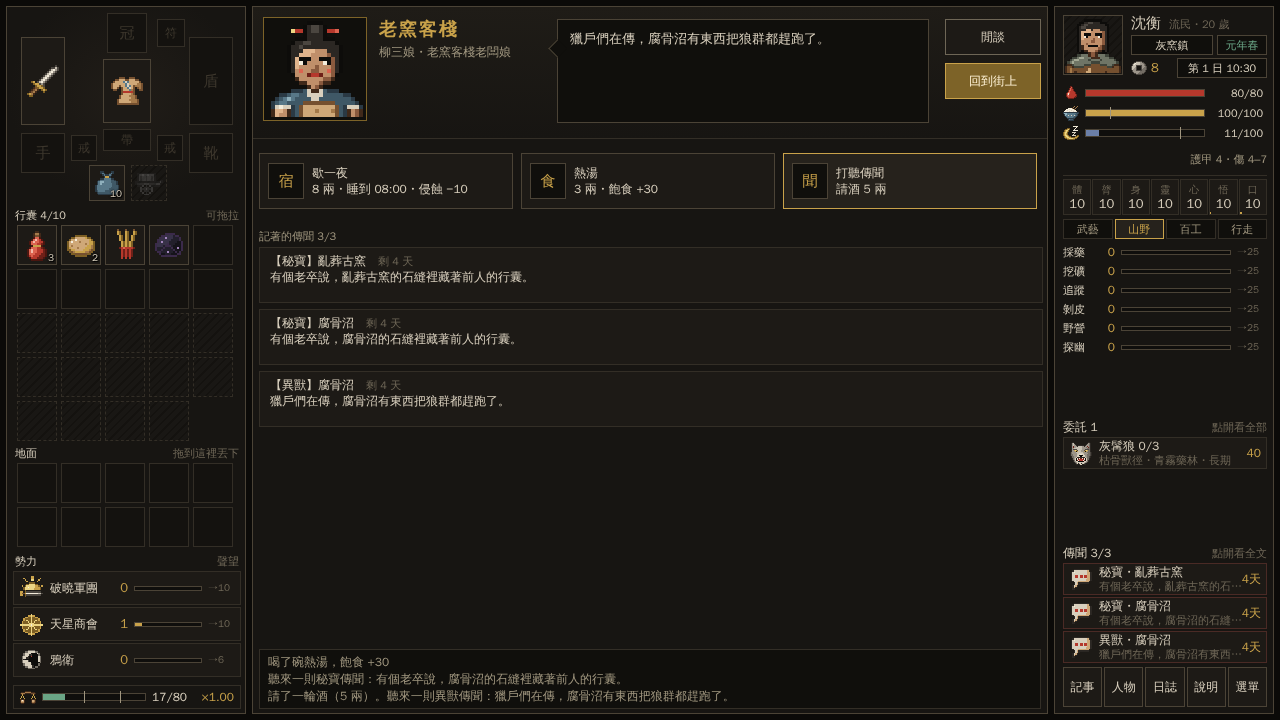
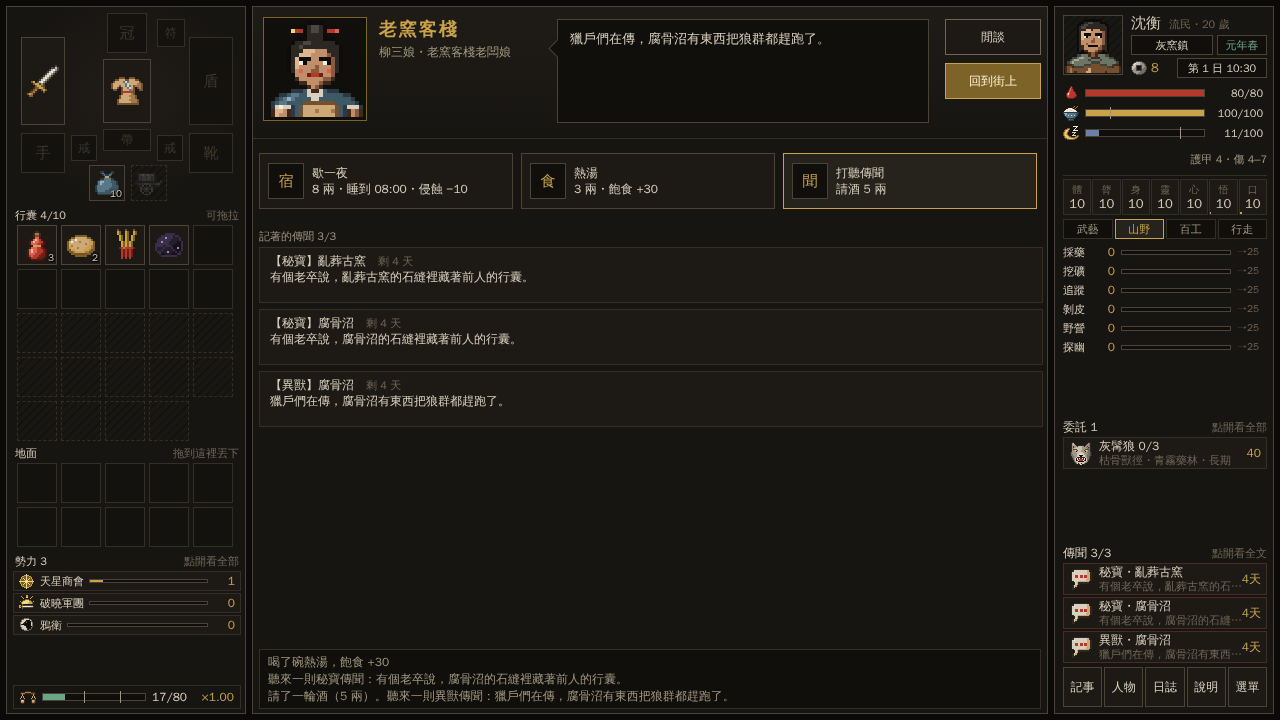
fix: 探查不再顯示次數；勢力欄改為可容納任意數量（可捲動清單＋勢力總覽），新增鎮西將軍府、拜裂教
Claude-Session: https://claude.ai/code/session_01LdUmBKKgToZ9b5RE6tfG3E

Changed region(s): [[0.0, 0.7639, 0.1875, 0.9472]]

diff --git a/js/ui.js b/js/ui.js
@@ -84,12 +84,13 @@
       h += '<div class="cell click' + rcls(it) + '" data-a="pickup" data-v="' + i + '" data-tip="ground:' + i + '" data-drag="ground:' + i + '" data-testid="ground-' + i + '" style="' + pos(x, y, 40, 40) + '">' + itIco(it) + (it.k !== 'eq' && it.n > 1 ? '<span class="n">' + it.n + '</span>' : '') + '</div>';
     }
     h += '</div>';
-    // 三大勢力聲望（原小地圖的位置）
-    h += '<div class="lhead" style="top:546px"><span class="lbl"><b>勢力</b></span><span class="sub">聲望</span></div><div class="reps" data-testid="reps">';
-    Object.keys(D.FACTIONS).forEach((f) => {
-      const F = D.FACTIONS[f]; const v = S.rep[f]; const nx = F.perks.find((p) => v < p[0]);
+    // 勢力聲望（原小地圖的位置）：勢力會越來越多，所以做成可捲動的精簡清單，聲望高的排前面；點開看全部
+    const fs = G.knownFactions().sort((a, b) => G.repOf(b) - G.repOf(a));
+    h += '<div class="lhead" style="top:546px" data-a="overlay" data-v="faction"><span class="lbl"><b>勢力 ' + fs.length + '</b></span><span class="sub lnk">點開看全部</span></div><div class="reps" data-testid="reps">';
+    fs.forEach((f) => {
+      const F = D.FACTIONS[f]; const v = G.repOf(f); const nx = F.perks.find((p) => v < p[0]);
       const base = nx ? (F.perks[F.perks.indexOf(nx) - 1] || [0])[0] : 0;
-      h += '<div class="rep" data-testid="rep-' + f + '" title="' + F.name + '：' + F.perks.map((p) => p[0] + ' ' + p[1]).join('；') + '">' + ico(F.ic, F.g, 24) + '<span class="rn">' + F.name + '</span><b>' + Math.floor(v) + '</b><div class="pb"><i style="width:' + (nx ? Math.min(100, ((v - base) / (nx[0] - base)) * 100) : 100).toFixed(0) + '%"></i></div><span class="rx">' + (nx ? '→' + nx[0] : '滿') + '</span></div>';
+      h += '<div class="rep" data-a="overlay" data-v="faction" data-testid="rep-' + f + '" title="' + F.name + '：' + (F.perks.length ? F.perks.map((p) => p[0] + ' ' + p[1]).join('；') : '尚無往來') + '">' + ico(F.ic, F.g, 16) + '<span class="rn">' + F.name + '</span><div class="pb"><i style="width:' + (F.perks.length ? (nx ? Math.min(100, ((v - base) / (nx[0] - base)) * 100) : 100) : 0).toFixed(0) + '%"></i></div><b>' + Math.floor(v) + '</b></div>';
     });
     h += '</div>';
     // 負重底條
@@ -285,8 +286,7 @@
   }
   // 探查鈕：每個地點都有
   function exploreBtn(S, cls) {
-    const ex = G.exploreInfo(S.loc); const done = ex.found >= ex.total;
-    return '<button class="btn ' + (done ? 'dis' : 'gold') + (cls ? ' ' + cls : '') + '" ' + (done ? 'disabled' : '') + ' data-a="explore" data-testid="btn-explore" title="花 1 小時翻找這個地點。成功率看靈覺與探幽。">' + (done ? '已翻遍 ' : '探查 ') + ex.found + '/' + ex.total + (done ? '' : '（' + Math.round(G.exploreChance(S.loc) * 100) + '%）') + '</button>';
+    return '<button class="btn gold' + (cls ? ' ' + cls : '') + '" data-a="explore" data-testid="btn-explore" title="花 1 小時在這裡四處翻找：可能找到東西、聽到見聞，或發現新的地方。靈覺與探幽越高越容易有收穫。">探查（1 小時）</button>';
   }
 
   // ---------- 出身 ----------
@@ -320,7 +320,7 @@
     if (S.mapView === 'continent') h = sceneContinent(S);
     else {
       h = '<div class="map' + scn('map_region') + '" data-testid="worldmap">';
-      h += '<div class="legend"><span>━ 官道</span><span>╍ 野徑</span><span class="red">■ 有傳聞</span><span class="gold">▪ 探查</span></div>';
+      h += '<div class="legend"><span>━ 官道</span><span>╍ 野徑</span><span class="red">■ 有傳聞</span></div>';
       h += '<button class="btn mapsw" data-a="mapView" data-v="continent" data-testid="btn-continent">大陸圖</button>';
       D.REGION_LABELS.forEach(([n, x, y]) => (h += '<div class="region" style="left:' + x + 'px;top:' + y + 'px">' + n + '</div>'));
       let svg = '<svg width="796" height="560">';
@@ -338,10 +338,8 @@
         const n = D.NODES[id];
         const rum = S.rumors.some((r) => r.node === id); const tide = td && td.town === id;
         const cls = (id === S.loc ? ' cur' : '') + (id === dest ? ' dest' : '') + (rum ? ' rum' : '') + (tide ? ' tide' : '') + (n.hidden ? ' secret' : '');
-        const ex = G.exploreInfo(id);
         h += '<div class="mnode' + cls + '" data-a="dest" data-v="' + id + '" data-testid="node-' + id + '" style="left:' + (n.x - 19) + 'px;top:' + (n.y - 19) + 'px">' + ico(n.ic, n.g, 32) + '</div>';
         h += '<div class="mlabel" data-a="dest" data-v="' + id + '" style="left:' + (n.x - 34) + 'px;top:' + (n.y + 23) + 'px;width:68px;justify-content:center;cursor:pointer">' + n.name + '</div>';
-        h += '<div class="exd" style="left:' + (n.x - 34) + 'px;top:' + (n.y + 43) + 'px" title="探查 ' + ex.found + '/' + ex.total + '">' + Array.from({ length: ex.total }, (_, k) => '<i class="' + (k < ex.found ? 'on' : '') + '"></i>').join('') + '</div>';
         if (id === S.loc) h += '<div class="here" style="left:' + (n.x - 22) + 'px;top:' + (n.y - 44) + 'px">此地</div>';
         else if (tide) h += '<div class="here tidel" style="left:' + (n.x - 22) + 'px;top:' + (n.y - 44) + 'px">獸潮</div>';
         else if (rum && id !== dest) h += '<div class="here ruml" style="left:' + (n.x - 22) + 'px;top:' + (n.y - 44) + 'px">傳聞</div>';
@@ -363,7 +361,7 @@
       h += '<button class="btn dark go" data-a="travel" data-testid="btn-travel">前往</button>';
     } else {
       const n = D.NODES[S.loc];
-      h += '<div class="dic">' + ico(n.ic, n.g, 32) + '</div><div class="dname"><b>' + n.name + '</b><span class="sub">此地</span></div><span class="sub dhint">點任何地點設定目的地。每個地點都能探查。</span>';
+      h += '<div class="dic">' + ico(n.ic, n.g, 32) + '</div><div class="dname"><b>' + n.name + '</b><span class="sub">此地</span></div><span class="sub dhint">點任何地點設定目的地；每個地點都能進去。</span>';
       h += exploreBtn(S, 'dexp') + '<button class="btn dark go" data-a="enterHere" data-testid="btn-enter">進入此地</button>';
     }
     h += '</div>';
@@ -430,7 +428,7 @@
   function sceneBuilding(S) {
     const B = G.bld(); const NP = D.NPCS[B.npc]; const F = B.faction ? D.FACTIONS[B.faction] : null;
     let h = '<div class="bhead" data-testid="town"><div class="bface">' + npcFace(B.npc, 96) + '</div>';
-    h += '<div class="btitle"><b data-testid="bld-name">' + B.name + '</b><span>' + NP.name + (NP.title ? '・' + NP.title : '') + '</span>' + (F ? '<span class="bfac">' + ico(F.ic, F.g, 16) + F.name + ' ' + Math.floor(S.rep[B.faction]) + '</span>' : '') + '</div>';
+    h += '<div class="btitle"><b data-testid="bld-name">' + B.name + '</b><span>' + NP.name + (NP.title ? '・' + NP.title : '') + '</span>' + (F ? '<span class="bfac">' + ico(F.ic, F.g, 16) + F.name + ' ' + Math.floor(G.repOf(B.faction)) + '</span>' : '') + '</div>';
     h += '<div class="bsay" data-testid="say">' + esc((S.say && S.say.text) || '……') + '</div>';
     h += '<div class="bbtns"><button class="btn" data-a="talk" data-v="' + B.npc + '" data-testid="btn-talk">閒談</button><button class="btn dark" data-a="tab" data-v="" data-testid="btn-street">回到街上</button></div></div>';
     h += '<div class="tpanel">';
@@ -492,7 +490,7 @@
       h += '<div class="dcard" style="left:' + x + 'px;top:' + y + 'px"><span class="bt"><b>' + p.name + ' ' + G.profLv(p.id) + '</b><span class="sub">' + (next ? next + '：' + cut(p.perks[next], 14) : '已無新門檻') + '</span></span><button class="btn" data-a="svc" data-v="drill:' + p.id + '" data-testid="drill-' + p.id + '">操練</button></div>';
     });
     const has = S.skills.includes('pozhen');
-    h += '<div class="ttl" style="left:0;top:194px">軍團傳授</div><div class="dcard wide" style="left:0;top:212px">' + ico('s_pozhen', '陣', 32) + '<span class="bt"><b>破陣</b><span class="sub">' + D.SKILLS.pozhen.desc + '需破曉軍團聲望 10（目前 ' + Math.floor(S.rep.dawn) + '）</span></span><button class="btn ' + (has ? 'dis' : 'gold') + '" ' + (has ? 'disabled' : '') + ' data-a="svc" data-v="pozhen" data-testid="svc-pozhen">' + (has ? '已習得' : '學（' + c.pozhen + ' 兩）') + '</button></div>';
+    h += '<div class="ttl" style="left:0;top:194px">軍團傳授</div><div class="dcard wide" style="left:0;top:212px">' + ico('s_pozhen', '陣', 32) + '<span class="bt"><b>破陣</b><span class="sub">' + D.SKILLS.pozhen.desc + '需破曉軍團聲望 10（目前 ' + Math.floor(G.repOf('dawn')) + '）</span></span><button class="btn ' + (has ? 'dis' : 'gold') + '" ' + (has ? 'disabled' : '') + ' data-a="svc" data-v="pozhen" data-testid="svc-pozhen">' + (has ? '已習得' : '學（' + c.pozhen + ' 兩）') + '</button></div>';
     return h;
   }
   function tabShop(S, B) {
@@ -628,12 +626,11 @@
     h += '<div class="scap">' + W.scene + (G.isNight(S.t) ? '　夜裡，遇險上升。' : '') + '</div>';
     h += '</div>';
     const herbF = Math.round(G.gatherFat('herb')), oreF = Math.round(G.gatherFat('ore'));
-    const ex = G.exploreInfo(S.loc); const exDone = ex.found >= ex.total;
     h += '<div class="gbtns">';
     h += '<button class="gbtn" data-a="gather" data-v="herb" data-testid="act-herb"><span class="ic">' + ico('p_herb', '草', 28) + '</span><span><b>採藥</b><span>1 小時・疲 +' + herbF + '</span></span></button>';
     h += '<button class="gbtn" data-a="gather" data-v="ore" data-testid="act-ore"><span class="ic">' + ico('p_ore', '礦', 28) + '</span><span><b>挖礦</b><span>2 小時・疲 +' + oreF + '</span></span></button>';
     h += '<button class="gbtn" data-a="gather" data-v="track" data-testid="act-track"><span class="ic">' + ico('p_track', '獸', 28) + '</span><span><b>追蹤</b><span>1 小時・入戰</span></span></button>';
-    h += '<button class="gbtn' + (exDone ? ' off' : '') + '" data-a="explore" data-testid="btn-explore"><span class="ic">' + ico('ui_explore', '探', 28) + '</span><span><b>探查 ' + ex.found + '/' + ex.total + '</b><span>' + (exDone ? '已翻遍' : '1 小時・' + Math.round(G.exploreChance(S.loc) * 100) + '%') + '</span></span></button>';
+    h += '<button class="gbtn" data-a="explore" data-testid="btn-explore"><span class="ic">' + ico('ui_explore', '探', 28) + '</span><span><b>探查</b><span>1 小時・四處翻找</span></span></button>';
     h += '<button class="gbtn hot" data-a="camp" data-testid="act-camp"><span class="ic">' + ico('ui_fire', '火', 28) + '</span><span><b>' + (S.fire ? '露宿' : '紮營') + '</b><span>' + (S.fire ? '8 小時・夜警' : '生火・1 小時') + '</span></span></button>';
     h += '</div>';
     h += '<div class="recipes" data-testid="recipes"><div class="ttl" style="left:8px;top:4px">營火' + (S.fire ? '' : '（未生火：先紮營）') + '　煉藥 ' + G.profLv('yao') + '・烹食 ' + G.profLv('peng') + '</div>' + recipeCards(S, 4, 24) + '</div>';
@@ -795,6 +792,17 @@
           ids.forEach((k) => { const has = S.codex.includes(k); h += '<div class="cx' + (has ? '' : ' unk') + '"><b>' + (has ? esc(L.CODEX[k].title) : '？？？') + '</b>' + (has ? '<p>' + esc(L.CODEX[k].text).replace(/\n/g, '<br>') + '</p>' : '') + '</div>'; });
         });
       }
+      h += '</div>';
+    } else if (S.overlay === 'faction') {
+      const fs = G.knownFactions(); const all = Object.keys(D.FACTIONS);
+      h += '<h2>勢力</h2><div class="jbody">';
+      fs.sort((a, b) => G.repOf(b) - G.repOf(a)).forEach((f) => {
+        const F = D.FACTIONS[f]; const v = G.repOf(f);
+        h += '<div class="fcard" data-testid="fcard-' + f + '"><div class="fic">' + ico(F.ic, F.g, 32) + '</div><div class="fbd"><b>' + F.name + '</b>　<span class="gold">聲望 ' + Math.floor(v) + '</span><p>' + F.desc + '</p><p class="sub">怎麼漲：' + F.how + '</p>';
+        h += F.perks.length ? '<div class="fperks">' + F.perks.map((p) => '<span class="' + (v >= p[0] ? 'got' : '') + '">' + p[0] + '　' + p[1] + '</span>').join('') + '</div>' : '<p class="sub">尚無往來。</p>';
+        h += '</div></div>';
+      });
+      if (all.length > fs.length) h += '<p class="sub">還有 ' + (all.length - fs.length) + ' 個勢力你還不知道。多聽、多看、多探查。</p>';
       h += '</div>';
     } else if (S.overlay === 'char') {
       const O = D.ORIGINS.find((o) => o.id === S.origin);

diff --git a/tests/e2e.js b/tests/e2e.js
@@ -204,7 +204,7 @@ async function exploreUntil(page, pred, max) {
   check('建築的點擊範圍來自平面圖場景（不是後備排版）', await page.evaluate(() => { const b = window.SHL_SCENES.buildings.plan_huiyao; return !!b && ['hy_market', 'hy_inn', 'hy_apoth', 'hy_smith', 'hy_board', 'hy_shrine', 'gate'].every((k) => Array.isArray(b[k]) && b[k].length === 4); }));
   check('街上有 3 個路人', (await page.$$('.plan .fig')).length === 3);
   check('#5 城鎮沒有分頁列', !(await page.$('.tabs')));
-  check('#1 左下小地圖已移除，改為三大勢力聲望', !(await page.$('.minimap')) && (await page.$$('[data-testid^=rep-]')).length === 3);
+  check('#1 左下小地圖已移除，改為勢力聲望（開局知道 3 個）', !(await page.$('.minimap')) && (await page.$$('[data-testid^=rep-]')).length === 3);
   check('#8 右欄不再有技能格', !(await page.$('.skillgrid')));
   check('開局委託：灰髯狼 ×3 已追蹤（兩行大字）', (await page.textContent('[data-testid=bounty]')).includes('灰髯狼 0/3') && await page.evaluate(() => parseFloat(getComputedStyle(document.querySelector('.jent .jt b')).fontSize) >= 12), await page.textContent('[data-testid=bounty]'));
   check('左欄 10 部位＋背包槽＋鎖定馬車槽', (await page.$$('[data-testid^=slot-]')).length === 11 && !!(await page.$('.slot-cart.locked')));
@@ -318,6 +318,16 @@ async function exploreUntil(page, pred, max) {
   await shot(page, '07-journal-codex.png');
   await click(page, 'sys-journal');
 
+  // ===== 6b. 勢力欄：讀到見聞會多出勢力，清單可捲動，點開看全部 =====
+  await page.evaluate(() => { window.SHL._debug.addCodex('c_warlord'); window.SHL._debug.addCodex('c_cult'); window.SHL._debug.addRep('crow', 3); window.SHL.setProfTab(window.SHL.state.profTab); });
+  const reps = await page.evaluate(() => ({ n: document.querySelectorAll('[data-testid^=rep-]').length, first: document.querySelector('[data-testid^=rep-]').getAttribute('data-testid'), scroll: getComputedStyle(document.querySelector('.reps')).overflowY }));
+  check('勢力欄：讀到見聞後多出勢力（5 個）、聲望高的排前面、可捲動', reps.n === 5 && reps.first === 'rep-crow' && reps.scroll === 'auto', reps);
+  await audit(page, '勢力欄 5 個');
+  await click(page, 'rep-dawn');
+  check('點勢力開啟勢力總覽：每個勢力的說明、怎麼漲、門檻', (await has(page, 'overlay-faction')) && (await page.$$('.fcard')).length === 5);
+  await shot(page, '07b-factions.png');
+  await click(page, 'sys-char'); await click(page, 'sys-char');
+
   // ===== 7. 探查（城鎮也能探查） =====
   await exploreUntil(page, () => window.SHL.state.found.huiyao >= 1);
   s = await st(page);
@@ -330,7 +340,7 @@ async function exploreUntil(page, pred, max) {
   check('點平面圖上的出口＝離鎮到地圖', s.scene === 'map');
   check('地圖：13 個地點可見、2 個隱藏地點不在圖上', (await page.$$('.mnode')).length === 13 && !(await has(page, 'node-yachao')) && !(await has(page, 'node-guzhong')));
   check('地圖底圖已載入', await page.evaluate(() => window.SHL_SCENES.has('map_region') && getComputedStyle(document.querySelector('.map')).backgroundImage.startsWith('url')));
-  check('地圖上每個地點都標了探查進度', (await page.$$('.exd')).length === 13 && (await page.$$('.exd i.on')).length >= 1);
+  check('地圖上不再標探查次數，探查鈕也不顯示次數', (await page.$$('.exd')).length === 0 && !/\d+\/\d+/.test(await page.textContent('[data-testid=btn-explore]')));
   await click(page, 'btn-continent');
   check('大陸圖：中山、四山、海外、大荒與此地', (await has(page, 'continent')) && (await page.$$('.cchip')).length === 7 && !!(await page.$('.chere')));
   await audit(page, '大陸圖');

diff --git a/js/game.js b/js/game.js
@@ -133,9 +133,12 @@ window.SHL = (function () {
   function inBld(type) { const b = bld(); return !!(b && S.scene === 'town' && b.place === S.loc && b.type === type); }
   function priceTable() { const P = place(); return D.PRICES[P ? P.price : 'duyin']; }
   function known(id) { const N = D.NODES[id]; return !!N && (!N.hidden || !!S.known[id]); }
-  function repOk(f, th) { return S.rep[f] >= th; }
+  function repOf(f) { return S.rep[f] || 0; }
+  function repOk(f, th) { return repOf(f) >= th; }
+  // 已知的勢力：沒有 reveal 的一開始就知道；有 reveal 的要讀到那條見聞
+  function knownFactions() { return Object.keys(D.FACTIONS).filter((f) => !D.FACTIONS[f].reveal || S.codex.includes(D.FACTIONS[f].reveal)); }
   function addRep(f, n) {
-    const before = S.rep[f]; S.rep[f] = Math.round((before + n) * 100) / 100;
+    const before = repOf(f); S.rep[f] = Math.round((before + n) * 100) / 100;
     D.FACTIONS[f].perks.forEach(([th, txt]) => { if (before < th && S.rep[f] >= th) log(D.FACTIONS[f].name + '聲望 ' + th + '：' + txt, 'good'); });
   }
   function addCodex(id, how) {
@@ -143,6 +146,7 @@ window.SHL = (function () {
     S.codex.push(id);
     const L = LORE().CODEX[id];
     log('見聞錄新增「' + (L ? L.title : id) + '」' + (how ? '（' + how + '）' : ''), 'good');
+    Object.keys(D.FACTIONS).forEach((f) => { if (D.FACTIONS[f].reveal === id) log('你知道了一個勢力：' + D.FACTIONS[f].name + '。', 'good'); });
     return true;
   }
   function addCorrupt(n) {
@@ -1158,17 +1162,17 @@ window.SHL = (function () {
   }
   function exploreChance(id) {
     id = id || S.loc; const n = S.found[id] || 0;
+    if (n >= (D.EXPLORE[id] || []).length) return clamp(0.1 + (attrVal('ling') - 10) * 0.01, 0.05, 0.2);
     return clamp(0.55 + (attrVal('ling') - 10) * 0.04 + profLv('tanyou') * 0.006 - n * 0.08, 0.15, 0.95);
   }
   function explore() {
     if (S.combat || S.dead || S.scene === 'origin' || S.scene === 'event' || S.scene === 'loot') return;
     const id = S.loc; const list = D.EXPLORE[id] || []; const n = S.found[id] || 0;
-    if (n >= list.length) { log(D.NODES[id].name + '已經翻遍了。'); return emit(); }
     const hours = perk('tanyou', 50) ? 0.5 : 1;
     const p = exploreChance(id);
     passTime(hours, { fat: 3 * hours }); if (S.dead) return commit();
     gainProf('tanyou', 7, n * 15);
-    if (rnd() >= p) {
+    if (n >= list.length || rnd() >= p) {
       log('探查' + D.NODES[id].name + '：' + pick(LORE().MISS));
       if (D.NODES[id].kind !== 'town' && !perk('tanyou', 25) && rnd() < 0.15) {
         const en = localBeast(id);
@@ -1765,7 +1769,7 @@ window.SHL = (function () {
     attrVal, attrProgress, profLv, profProgress, perk,
     eqBase, eqValue, itemWt, itemName, itemGlyph, itemIcon, countItem, affixSum, reqUnmet, slotFits,
     clickPack, unequip, useItem, pickupGround, drag, identify, identifyFee, chooseOrigin,
-    place, bld, inBld, known, repOk, LORE,
+    place, bld, inBld, known, repOk, repOf, knownFactions, LORE,
     selectDest, travel, travelPreview, toMap, enterHere, route, setMapView,
     explore, exploreInfo, exploreChance, wildPoints,
     setTab, selectShop, setQty, buy, sell, sellPrice, buyPrice, buysHere, rowLocked, shopRows, townPrice, avgPrice, innRest, innSoup, innCost, townHurt, service,

diff --git a/js/data.js b/js/data.js
@@ -372,10 +372,14 @@ window.SHL_DATA = (function () {
   };
 
   // ---------- 三大勢力與聲望門檻 ----------
+  // ---------- 勢力與聲望門檻 ----------
+  // 勢力會越來越多：reveal＝讀到這條見聞才知道有這個勢力；how＝怎麼漲聲望（介面說明用）
   const FACTIONS = {
-    dawn: { name: '破曉軍團', g: '曉', ic: 'f_dawn', perks: [[10, '校場肯教〈破陣〉'], [20, '委託報酬 +15%']] },
-    star: { name: '天星商會', g: '星', ic: 'f_star', perks: [[10, '商號九五折'], [25, '可買精工大囊、鑑定半價']] },
-    crow: { name: '鴉衛', g: '鴉', ic: 'f_crow', perks: [[6, '赤鴉肯替你辨傳聞'], [14, '傳授〈鴉影〉']] },
+    dawn: { name: '破曉軍團', g: '曉', ic: 'f_dawn', desc: '冒險者、傭兵與亡國殘兵的聯合武裝，在各地建據點護民。', how: '完成委託、擊退獸潮、清空地城、上繳軍牌', perks: [[10, '校場肯教〈破陣〉'], [20, '委託報酬 +15%']] },
+    star: { name: '天星商會', g: '星', ic: 'f_star', desc: '天裂前就幾乎壟斷大陸經濟的金融帝國，災變後仍有辦法把貨運到。', how: '在天星商號與行商買賣、完成送貨、付費鑑定', perks: [[10, '商號九五折'], [25, '可買精工大囊、鑑定半價']] },
+    crow: { name: '鴉衛', g: '鴉', ic: 'f_crow', desc: '人數極少的情報組織，專門調查天裂之後的異象。', how: '向赤鴉回報見聞、查證傳聞', perks: [[6, '赤鴉肯替你辨傳聞'], [14, '傳授〈鴉影〉']] },
+    warlord: { name: '鎮西將軍府', g: '將', reveal: 'c_warlord', desc: '當年護民的人，三年後在官道上收稅。灰窯原名義上歸他們管。', how: '（下一版開放）', perks: [] },
+    cult: { name: '拜裂教', g: '裂', reveal: 'c_cult', desc: '他們拜的不是神，是裂口。沉淵祭窟的供桌是新的。', how: '（下一版開放）', perks: [] },
   };
 
   // ---------- 探查：每個地點固定幾樣發現，依序找到 ----------

diff --git a/css/style.css b/css/style.css
@@ -630,3 +630,23 @@ h4 { margin-top: 0; }
 .plan.mute .bld span, .plan.mute .fig > span { display: none; }
 .plan.mute .bld { pointer-events: none; }
 .act .cd { bottom: auto; height: 40px; }
+
+/* ---------- v0.3.1：勢力欄（可容納任意數量）、勢力總覽 ---------- */
+.lhead[data-a] { cursor: pointer; }
+.lhead .lnk { color: var(--ink-3); }
+.lhead[data-a]:hover .lnk, .lhead[data-a]:hover b { color: var(--gold); }
+.reps { top: 564px; height: 108px; overflow-y: auto; overflow-x: hidden; scrollbar-width: thin; scrollbar-color: var(--line) transparent; }
+.rep { height: 20px; margin-bottom: 2px; gap: 5px; padding: 0 5px; cursor: pointer; }
+.rep:hover { border-color: var(--gold); }
+.rep .gl { width: 16px; text-align: center; font-size: 11px; font-weight: 700; color: var(--ink-2); }
+.rep .rn { width: auto; flex: none; max-width: 76px; overflow: hidden; font-size: 11px; }
+.rep .pb { height: 4px; }
+.rep b { width: 22px; font-size: 12px; }
+.fcard { display: flex; gap: 12px; border: 1px solid var(--line-soft); background: var(--cell); padding: 10px 12px; margin-bottom: 8px; }
+.fic { width: 44px; height: 44px; flex: none; border: 1px solid var(--line); background: #100f0c; display: flex; align-items: center; justify-content: center; font-size: 18px; font-weight: 700; color: var(--gold); }
+.fbd { flex: 1; font-size: 13px; }
+.fbd p { margin: 4px 0 0; font-size: 12px; line-height: 19px; color: var(--ink-2); }
+.fbd p.sub { color: var(--ink-3); }
+.fperks { display: flex; gap: 6px; margin-top: 6px; flex-wrap: wrap; }
+.fperks span { border: 1px solid var(--line-soft); padding: 1px 8px; font-size: 11px; color: var(--ink-3); }
+.fperks span.got { border-color: var(--jade); color: var(--jade); }

diff --git a/docs/design/GDD-v0.3.md b/docs/design/GDD-v0.3.md
@@ -15,7 +15,7 @@
 | 1 | 左下小地圖沒用 | 刪除。原位置改放三大勢力的聲望 |
 | 2 | 委託和傳聞太小 | 右欄重排，每則兩行、字放大；另有「記事」面板看全文 |
 | 3 | 城鎮沒有城鎮的感覺 | 城鎮改成平面圖：街道、廣場、圍牆，上面有多棟建築與路人 |
-| 4 | 世界地圖每個點都要能走、能探查 | 所有節點都是地點（含驛站與岔口）；每個地點都有「探查」 |
+| 4 | 據點之間的點也要能進去 | 地圖上不再有「只能路過」的點：原本的安全官道、山嶺野徑改成可進入的官道驛站、野徑岔口，所有節點都是能進去的地點 |
 | 5 | 城鎮左上角分頁沒意義 | 拿掉分頁。點建築進去，點「回到街上」出來 |
 | 6 | 城鎮少了 NPC、老闆 | 每棟建築有老闆（頭像、招呼、閒談、服務）；街上有路人 |
 | 7 | 戰鬥很問號，要有互動感（參考 Orna） | 行動逐步演出：出手、受擊、傷害數字、狀態；加入招式、會心、異常狀態 |
@@ -121,8 +121,9 @@
 
 ### 3.3 探查
 
-- 每個地點都有「探查」：花 1 小時，檢定靈覺與**探幽**熟練度。
-- 每個地點的發現是固定的幾樣，依序找到，越後面越難。找完就沒了。
+- 探查是在任何地點都能做的一般行動：花 1 小時四處翻找，檢定靈覺與**探幽**熟練度。
+- 介面不顯示「還剩幾樣」，地圖上也不標次數。玩家只知道「這裡可能還有東西」。
+- 內部每個地點有固定的幾樣發現，依序找到，越後面越難。找完之後仍然可以探查，只是不會再有新東西。
 - 發現有五種：
   - **見聞**：一條世界觀碎片，收進見聞錄。可以賣給鴉衛。
   - **藏物**：銀兩、素材、裝備。
@@ -200,13 +201,22 @@
 
 ### 4.4 勢力聲望
 
+勢力會越來越多（軍閥、邪教、日後各區域的門派），所以介面一開始就照「任意數量」設計：
+
+- **左欄**：可捲動的精簡清單，一行一個勢力（徽記、名稱、門檻進度條、聲望數字），聲望高的排前面。一次看得到 5 個，更多就捲動。
+- **勢力總覽**：點清單任一行打開。每個勢力有說明、怎麼漲、各門檻的好處；還不知道的勢力只顯示數量。
+- **發現勢力**：有些勢力一開始就知道，有些要讀到相關的見聞才會出現（例如讀到〈軍閥與世族〉才知道鎮西將軍府）。
+
 | 勢力 | 怎麼漲 | 門檻與好處 |
 | --- | --- | --- |
 | 破曉軍團 | 完成委託板的委託、擊退獸潮、清空地城、上繳軍牌 | 10：校場肯教〈破陣〉。20：委託報酬 +15% |
 | 天星商會 | 在商號與行商買賣、完成送貨 | 10：商號九五折。25：買得到精工大囊，鑑定半價 |
 | 鴉衛 | 向赤鴉回報見聞、查證傳聞 | 6：赤鴉肯替你辨傳聞。14：傳授〈鴉影〉 |
 
-聲望只增不減（本版）。左欄下方常駐顯示。
+| 鎮西將軍府 | 讀到〈軍閥與世族〉後出現 | 下一版開放 |
+| 拜裂教 | 讀到〈邪教〉後出現 | 下一版開放 |
+
+聲望只增不減（本版）。
 
 ---
 
@@ -397,7 +407,7 @@
 
 | 欄 | 內容 |
 | --- | --- |
-| 左 | 人形 10 部位＋背包槽（戰鬥中主手＝出手、副手盾＝防禦）、行囊 24 格、地面 10 格、**三大勢力聲望**、負重條 |
+| 左 | 人形 10 部位＋背包槽（戰鬥中主手＝出手、副手盾＝防禦）、行囊 24 格、地面 10 格、**勢力聲望清單（可捲動）**、負重條 |
 | 中 | 區域圖／大陸圖、城鎮平面圖與建築內部、荒野、地城、戰鬥、事件、墓誌銘 |
 | 右 | 頭像與時間、命／食／疲、素質 7 項、熟練度四分頁、**委託（大字兩行）**、**傳聞（大字兩行）**、系統鈕 |
 
@@ -422,7 +432,7 @@
 | 配方 | 3 | 5 |
 | 探查發現 | 0 | 41 |
 | 見聞錄 | 0 | 25 |
-| 勢力聲望 | 0 | 3 |
+| 勢力 | 0 | 5（3 個可漲聲望） |
 
 ---
 
